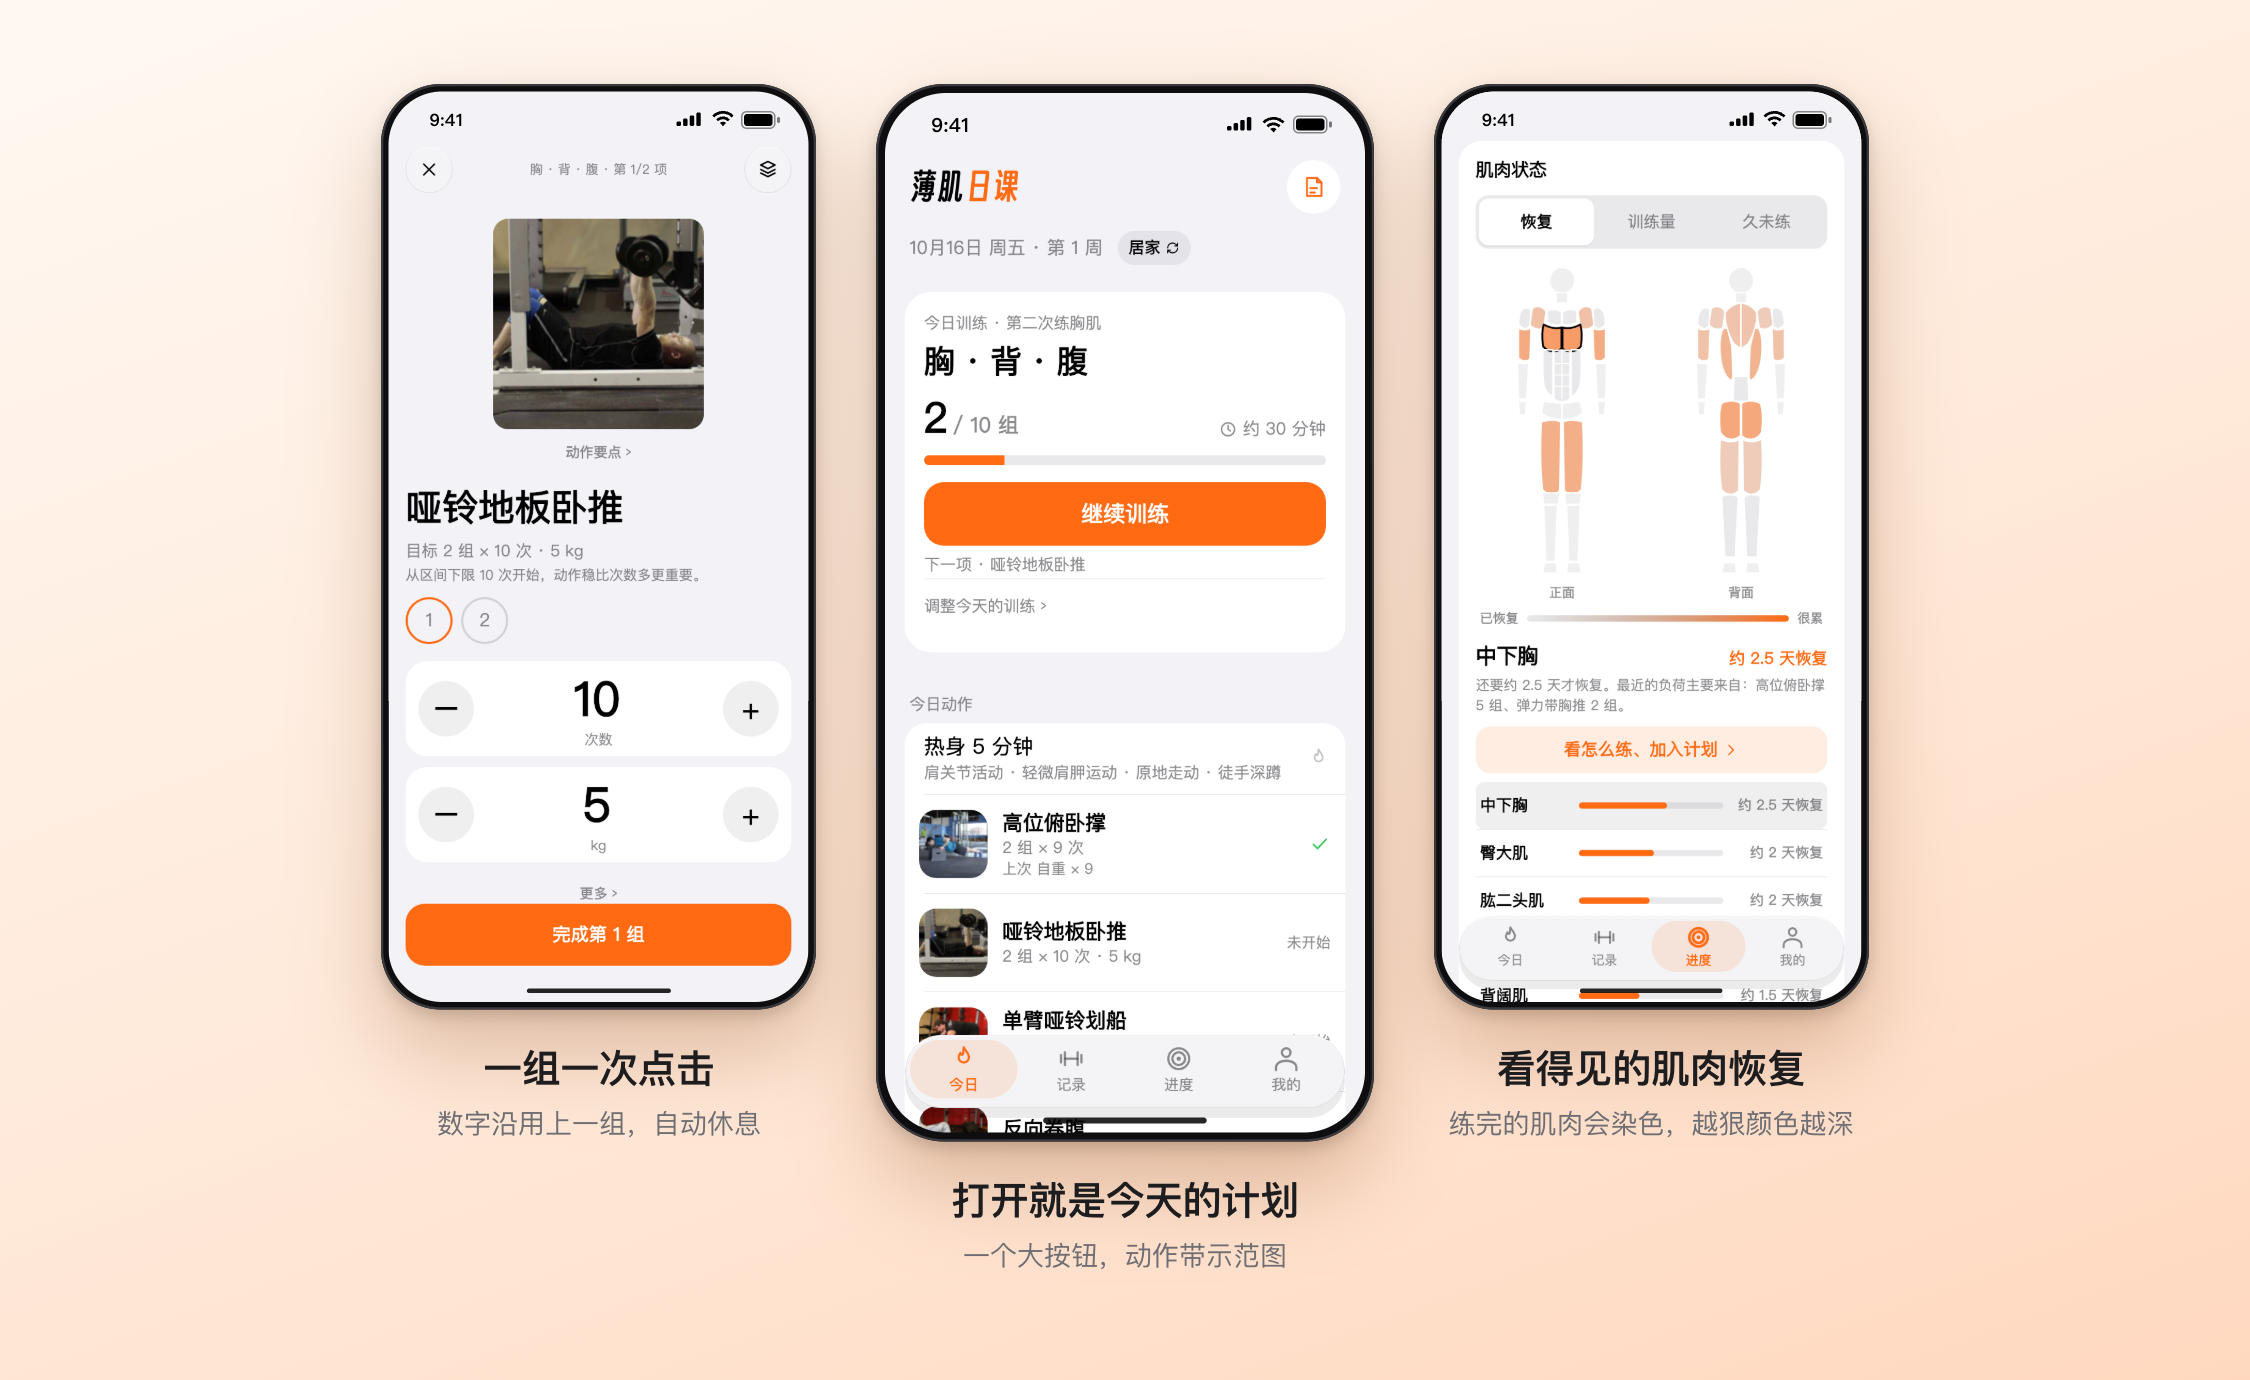
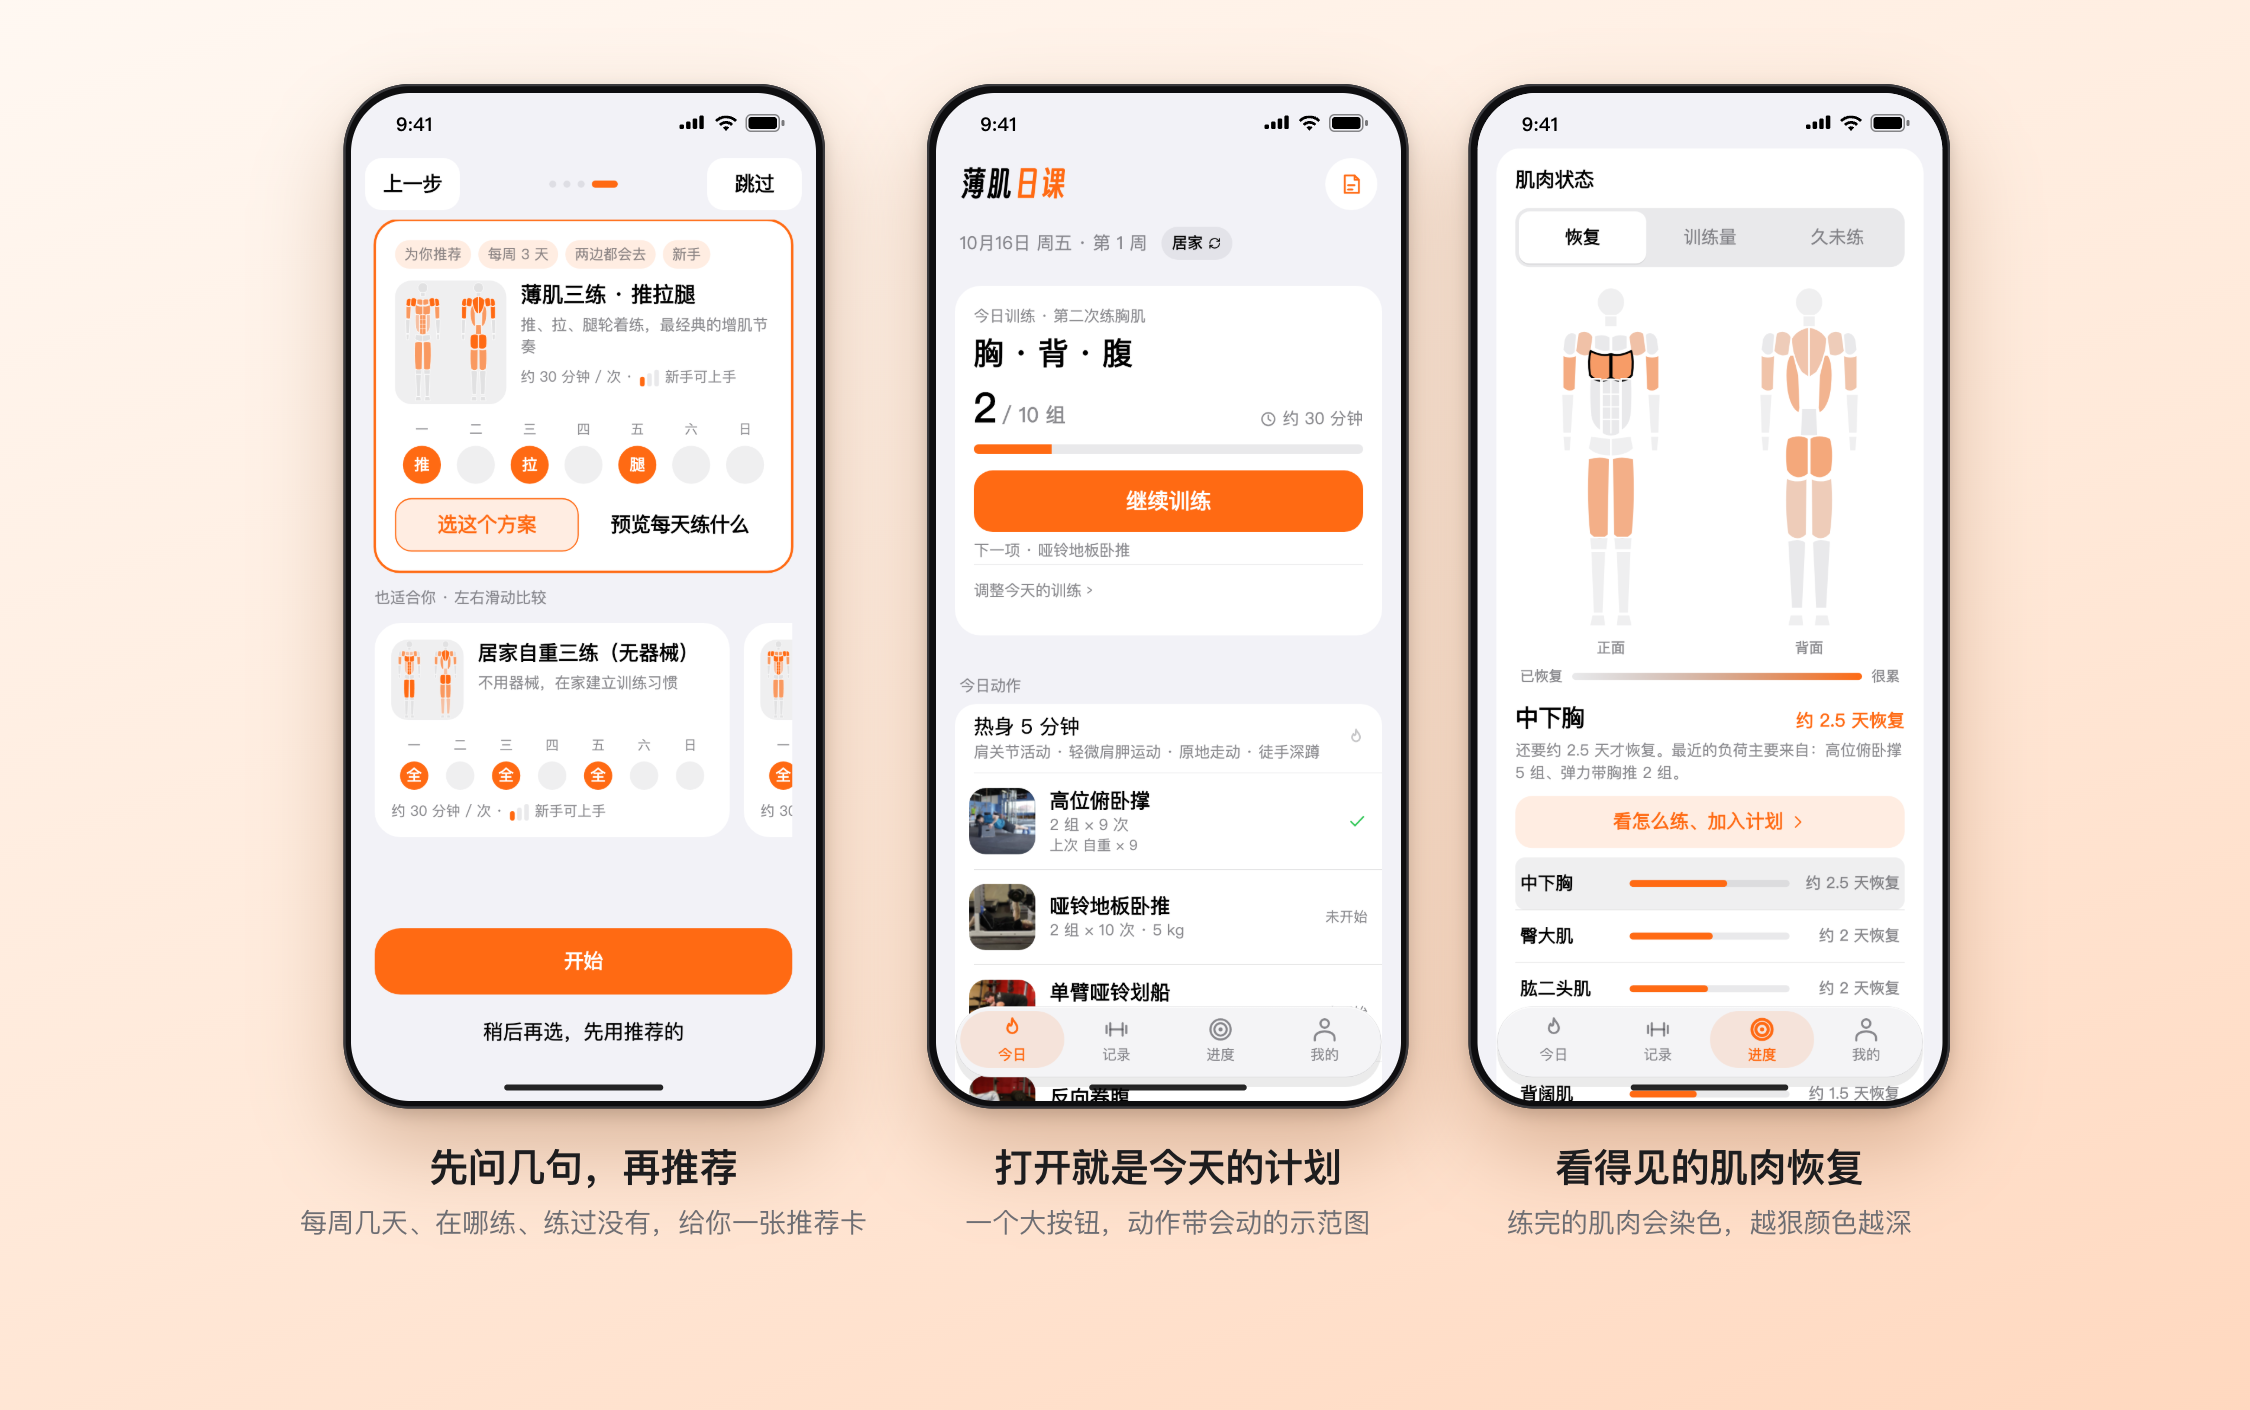
README：首图左侧换成“先问几句，再推荐”，亮点按使用顺序重排；展示图素材与日常测试输出分目录

Changed region(s): [[0.1244, 0.0623, 0.8711, 0.9348]]

diff --git a/test/support/harness.dart b/test/support/harness.dart
@@ -105,7 +105,8 @@ class Harness {
     return Harness._(native, controller, key);
   }
 
-  /// 写出 out/shots/NAME.png（2 倍图）。
+  /// 写出 NAME.png（2 倍图）：带安全区（LEANDAILY_SAFE_AREA=1，README 展示图的来源）写到 out/shots/，
+  /// 普通运行写到 out/shots-plain/，避免日常跑测试时覆盖展示图的素材。
   Future<void> shot(WidgetTester tester, String name) async {
     debugDisableShadows = false;
     await tester.pump();
@@ -114,7 +115,10 @@ class Harness {
     await tester.runAsync(() async {
       final image = await boundary.toImage(pixelRatio: 2);
       final bytes = await image.toByteData(format: ui.ImageByteFormat.png);
-      final file = File('out/shots/$name.png');
+      final dir = Platform.environment['LEANDAILY_SAFE_AREA'] == '1'
+          ? 'out/shots'
+          : 'out/shots-plain';
+      final file = File('$dir/$name.png');
       await file.parent.create(recursive: true);
       await file.writeAsBytes(bytes!.buffer.asUint8List());
       image.dispose();

diff --git a/tool/readme_shots/compose.py b/tool/readme_shots/compose.py
@@ -82,12 +82,12 @@ def render(name, body, w, h, bg, dark=False, transparent=False):
 LIGHT_BG = 'linear-gradient(160deg,#fff8f2 0%,#ffe9d9 55%,#ffd8bf 100%)'
 DARK_BG = 'linear-gradient(160deg,#1a1a1c 0%,#26211d 55%,#3a2415 100%)'
 
-# 1 主图
+# 1 主图：推荐方案 → 今日计划 → 肌肉恢复（三张等大，说明文字对齐）
 render('hero.png',
-       item('r-train-set-light.png', '一组一次点击', '数字沿用上一组，自动休息', 280)
-       + item('readme-today-light.png', '打开就是今天的计划', '一个大按钮，动作带示范图', 320)
-       + item('readme-muscle-light.png', '看得见的肌肉恢复', '练完的肌肉会染色，越狠颜色越深', 280, mask='#f2f2f7'),
-       1500, 920, LIGHT_BG)
+       item('r-plan-onb-light.png', '先问几句，再推荐', '每周几天、在哪练、练过没有，给你一张推荐卡', 310)
+       + item('readme-today-light.png', '打开就是今天的计划', '一个大按钮，动作带会动的示范图', 310)
+       + item('readme-muscle-light.png', '看得见的肌肉恢复', '练完的肌肉会染色，越狠颜色越深', 310, mask='#f2f2f7'),
+       1500, 940, LIGHT_BG)
 
 # 2 新手选方案（半屏弹层顶部是压暗的背景页，状态栏用白字）
 render('feature-plan.png',

diff --git a/README.md b/README.md
@@ -36,27 +36,27 @@
 
 ## 亮点
 
-### ① 打开就是今天的计划，示范图会动
+### ① 先问几句，再推荐：不用自己挑方案
 
-没有层层菜单。打开 App 就是今天练什么、练多少组、下一个动作是什么，一个大按钮"继续训练"。每个动作都带真人示范图，在训练界面里自己循环播放，不用点开。
+大多数训练 App 一上来就丢给你十几个文字方案，新手根本看不出区别。LeanDaily 反过来：先问你**每周几天、在哪练**（在家无哑铃 / 在家有哑铃 / 健身房 / 两边都去）、**练过没有**，再给你**一张推荐卡**，其余适合的方案横向滑动对比。
+
+每个方案都是一张"指纹卡"，不用读说明就能看懂：
+
+- **一周条**：7 个小圆点，训练日点亮，圆里写这天练什么（推 / 拉 / 腿 / 全 / 上 / 下），"每周几天、怎么排"一眼看懂；
+- **迷你人体图**：用真实动作数据算出每周各肌肉的训练量并染色，一眼看到"练的是哪里"；
+- **一句话简介 + 适合谁**：不用再读一大段说明。
+
+<img src="docs/images/feature-plan.png" alt="新手选方案" width="100%">
+
+### ② 打开就是今天的计划，示范图会动
+
+选好方案之后，没有层层菜单。打开 App 就是今天练什么、练多少组、下一个动作是什么，一个大按钮"继续训练"。每个动作都带真人示范图，在训练界面里自己循环播放，不用点开。
 
 <div align="center">
 <img src="docs/images/flow.gif" alt="从今日到训练再到小结" height="420">
 &nbsp;&nbsp;&nbsp;
 <img src="docs/images/demo-floor-press.gif" alt="动作示范动图" height="420">
 </div>
-
-### ② 新手选方案，不再看文字墙
-
-很多训练 App 一上来就丢给你十几个文字方案，看不出区别。LeanDaily 把每个方案做成一张"指纹卡"：
-
-- **一周条**：7 个小圆点，训练日点亮，圆里写这天练什么（推 / 拉 / 腿 / 全 / 上 / 下），"每周几天、怎么排"一眼看懂；
-- **迷你人体图**：用真实动作数据算出每周各肌肉的训练量并染色，一眼看到"练的是哪里"；
-- **一句话简介 + 适合谁**：不用再读一大段说明。
-
-引导会先问你每周几天、在哪练（在家无哑铃 / 在家有哑铃 / 健身房 / 两边都去）、练过没有，再给你**一张推荐卡**，其余的横向滑动对比。
-
-<img src="docs/images/feature-plan.png" alt="新手选方案" width="100%">
 
 ### ③ 看得见的进度，看得见的恢复
 

diff --git a/README.en.md b/README.en.md
@@ -37,17 +37,17 @@ It is a fully offline app: no account, no ads, no analytics, no server.
 
 ## Highlights
 
-**Today, at a glance.** Open the app and see what to train today, how many sets, what's next, and one big button. Every exercise has a looping demo that plays right inside the workout screen.
+**Ask a few questions, then get a recommendation — no plan-hunting.** Most training apps greet you with a dozen text-only plans that look the same. LeanDaily asks how many days a week, where you train (home without / with dumbbells, gym, or both) and your experience, then shows **one recommended card** plus swipeable alternatives. Each plan is a "fingerprint card": a 7-day strip showing which days you train and what (push / pull / legs / full / upper / lower), a mini body map shaded by the plan's real weekly volume per muscle, a one-line summary and a "who it's for" meter.
+
+<img src="docs/images/feature-plan.png" alt="Plan picker" width="100%">
+
+**Then: today, at a glance.** Open the app and see what to train today, how many sets, what's next, and one big button. Every exercise has a looping demo that plays right inside the workout screen.
 
 <div align="center">
 <img src="docs/images/flow.gif" alt="Today → workout → summary" height="420">
 &nbsp;&nbsp;&nbsp;
 <img src="docs/images/demo-floor-press.gif" alt="Exercise demo" height="420">
 </div>
-
-**Choosing a plan without a wall of text.** Each plan is a "fingerprint card": a 7-day strip showing which days you train and what (push / pull / legs / full / upper / lower), a mini body map shaded by the plan's real weekly volume per muscle, a one-line summary and a "who it's for" meter. Onboarding asks days per week, where you train (home without / with dumbbells, gym, or both) and experience, then shows **one recommended card** plus swipeable alternatives.
-
-<img src="docs/images/feature-plan.png" alt="Plan picker" width="100%">
 
 **Progress you can see.** A muscle map coloured by *recovery*, *volume* or *neglect*; a 7-day-average weight trend with estimated body-fat progress; a weekly review that suggests next week's adjustment (e.g. ±100 kcal) you can apply in one tap.
 

diff --git a/CONTRIBUTING.md b/CONTRIBUTING.md
@@ -19,7 +19,7 @@ bash tool/lint_tokens.sh
 TZ=Asia/Shanghai flutter test     # 时区必须固定，否则与日期相关的测试会失败
 ```
 
-截图测试会把图片写到 `out/shots/`。README 里的展示图用下面的方法重新生成（macOS）：
+截图测试会把图片写到 `out/shots-plain/`（带 `LEANDAILY_SAFE_AREA=1` 时写到 `out/shots/`，那是 README 展示图的素材）。README 里的展示图用下面的方法重新生成（macOS）：
 
 ```bash
 python3 tool/readme_shots/extract_pingfang_sc.py        # 抽出苹方-简，截图字形才和真机一致
